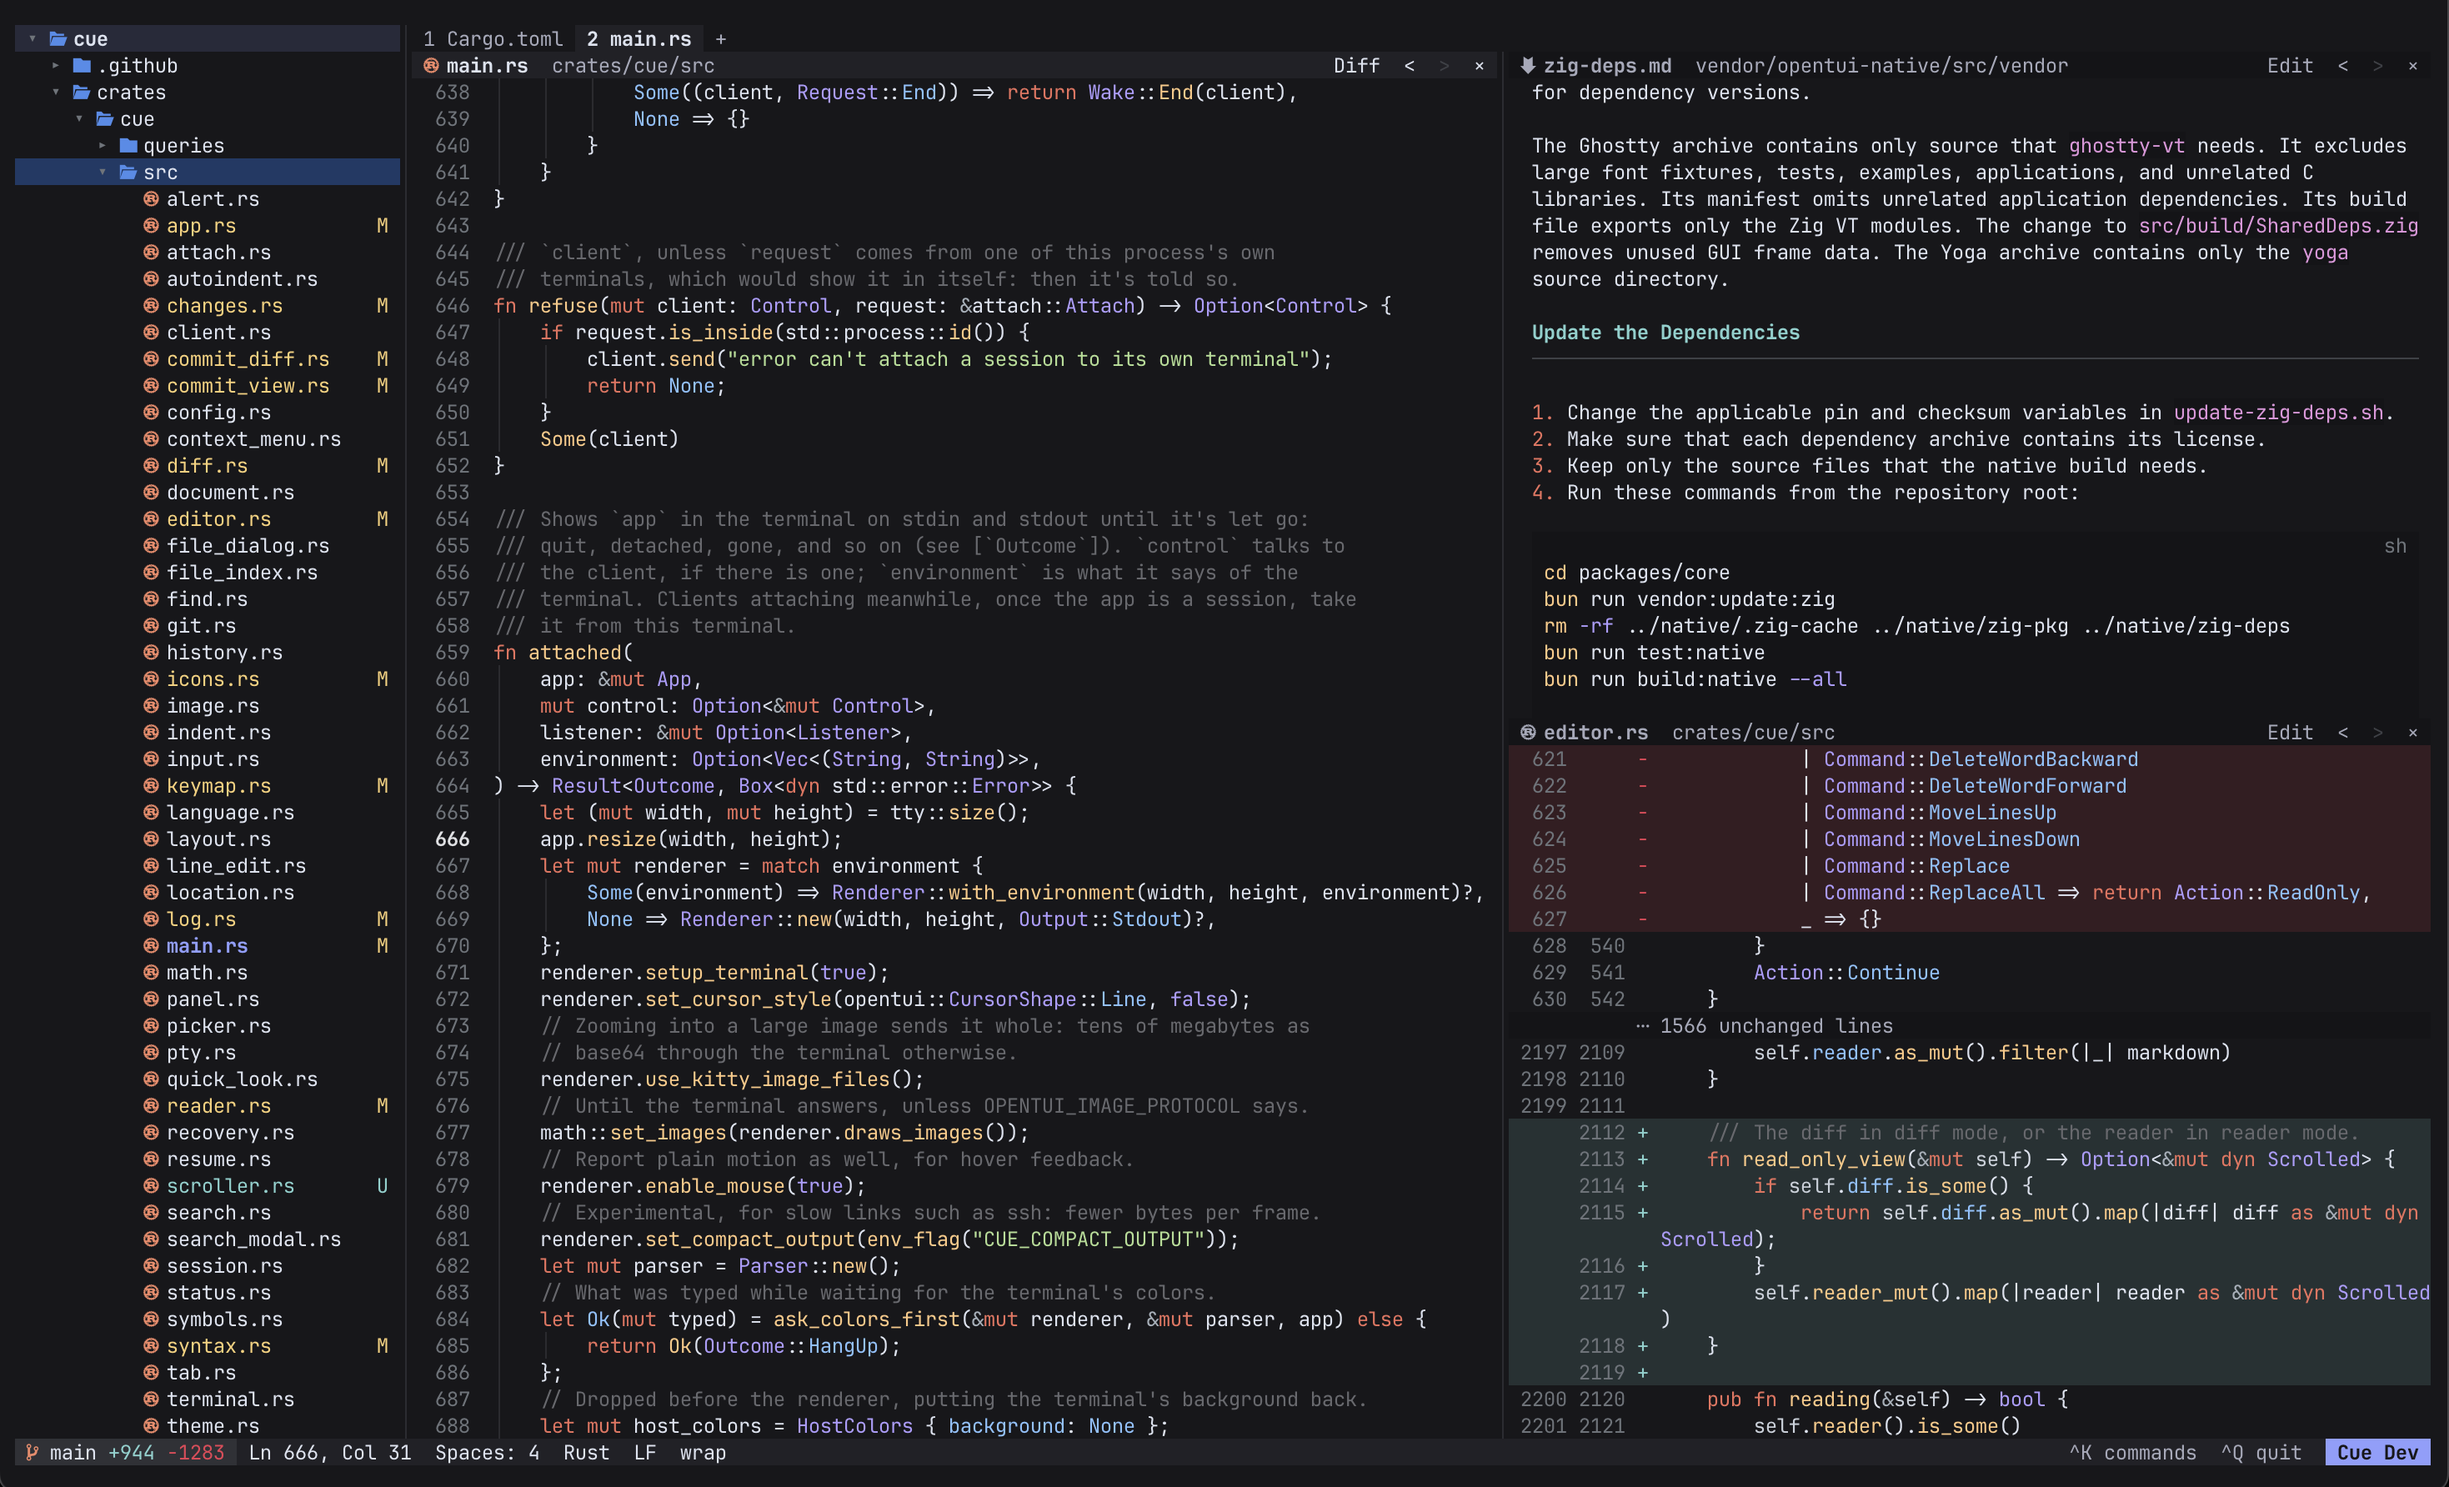
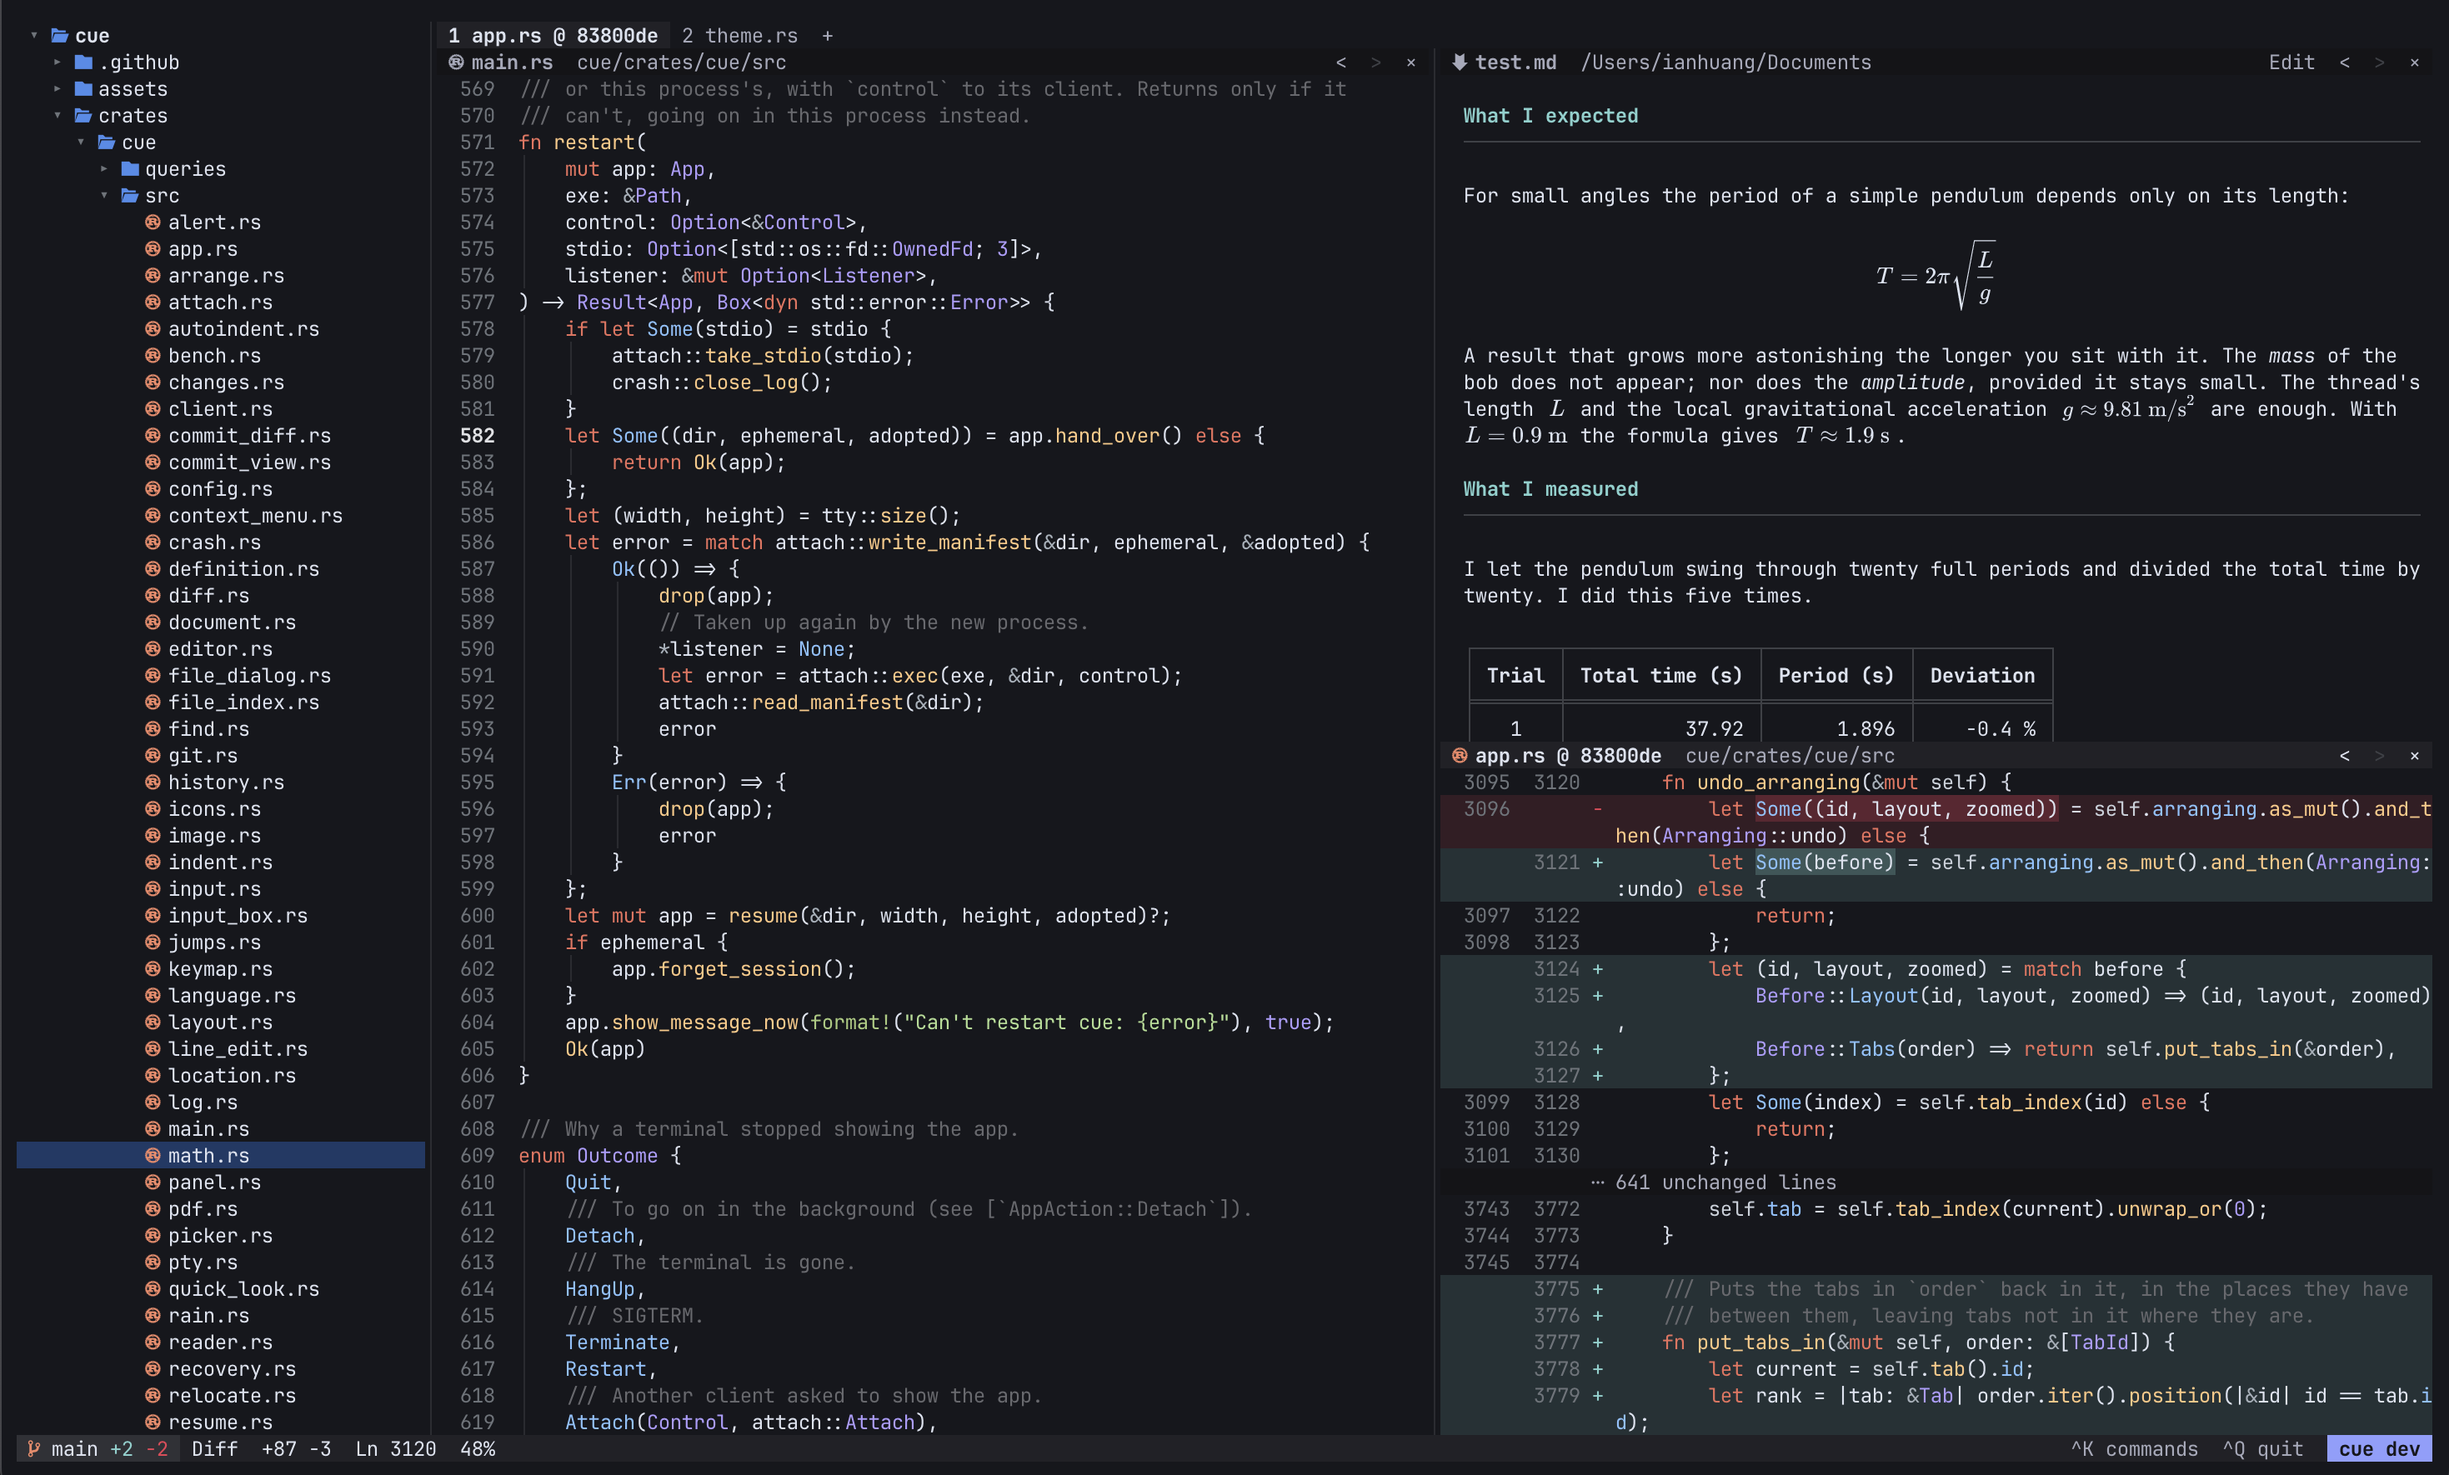
New screenshot

diff --git a/crates/cue/src/theme.rs b/crates/cue/src/theme.rs
@@ -772,7 +772,7 @@ static BUILTIN: &[Def] = &[
     Def {
         name: "Cue Dark",
         light: false,
-        bg: 0x17171a,
+        bg: 0x16171c,
         fg: 0xdde3f0,
         ansi: [
             0x4a4b4d, 0xeb4056, 0x82d2ce, 0xfad075, 0x4b8dec, 0xeb83e2, 0x2ccce6, 0xe0e1e4,

diff --git a/CHANGELOG.md b/CHANGELOG.md
@@ -5,7 +5,7 @@
 - Tab switches the sidebar between the files and the changes while it has focus (`a7250c5`)
 - Fast scrolling, typing, and find in big files (a keystroke in a 100k-line file went from about 130 ms to under 1 ms); find highlights now show only in the panel with the find bar, and only near the view (`d44f6a8`)
 - Use about half the memory for files with many lines (a 100 MB log with 1M lines went from about 1 GB to 685 MB) (`339ec05`)
-- Highlight JSON Lines files (`.jsonl`, `.ndjson`)
+- Highlight JSON Lines files (`.jsonl`, `.ndjson`) (`d703ec3`)
 
 ## v0.4.5 — 2026-10-16
 
